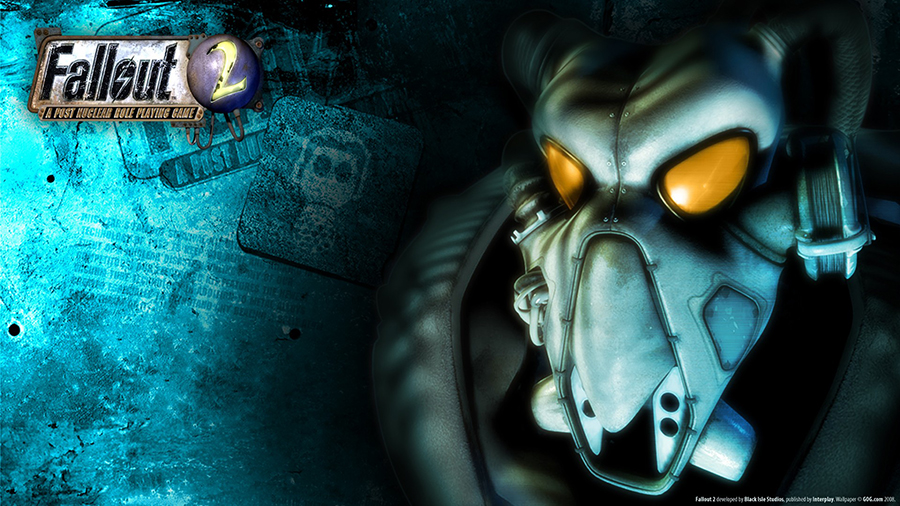
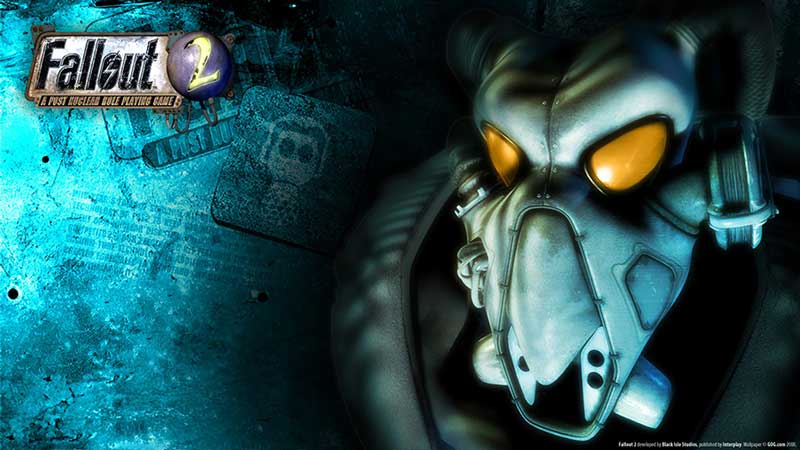
Optimizirane slike

diff --git a/css/web.css b/css/web.css
@@ -18,7 +18,7 @@ header {
 	position: relative;
 	height: 250px;
 	max-width: 900px;
-	background-image: url("../img/jpg/Header_logo.png");
+	background-image: url("../img/jpg/Header_logo2.png");
 	background-repeat: no-repeat;
     background-size: cover;
     margin:0 auto;
@@ -231,8 +231,9 @@ body > main > footer > a {padding:5px;}
 
 /* Media za floatbox..bez floata, da idu jedan ispod drugoga*/
 @media only screen and (max-width: 520px) {
-    .floatBox article { text-align: center; height:400px; font-size:1.4em;width:calc(100% - 14px); border:2px solid white; min-height: 150px;}
-	.floatBox article p {margin-top:-15px;}
+    .floatBox article { text-align: center; height:300px; font-size:1.3em; width:calc(100% - 14px); border:2px solid white; min-height: 150px;}
+	.floatBox article p { font-size: 1.2em; color: lime; margin-top:-10px;}
+
 
 }
 

diff --git a/index.html b/index.html
@@ -39,7 +39,7 @@
     <p class="uvod"><em>&#8220;And so, for a generation since its founding, Arroyo has lived in peace, its canyons sheltering it from the outside world. It is home. Your home. But the scars left by the &#9762; war have not yet healed. And the Earth has not forgotten...&#8221;</em><br>
     - The Narrator, Fallout 2 intro.</p>
     <figure>
-      <img alt="Interplay logo" src="img/gif/Interplay.gif">
+      <img alt="Interplay logo" src="img/jpg/Interplay.png">
     </figure>
 
     <!-- It contains  articles -->
